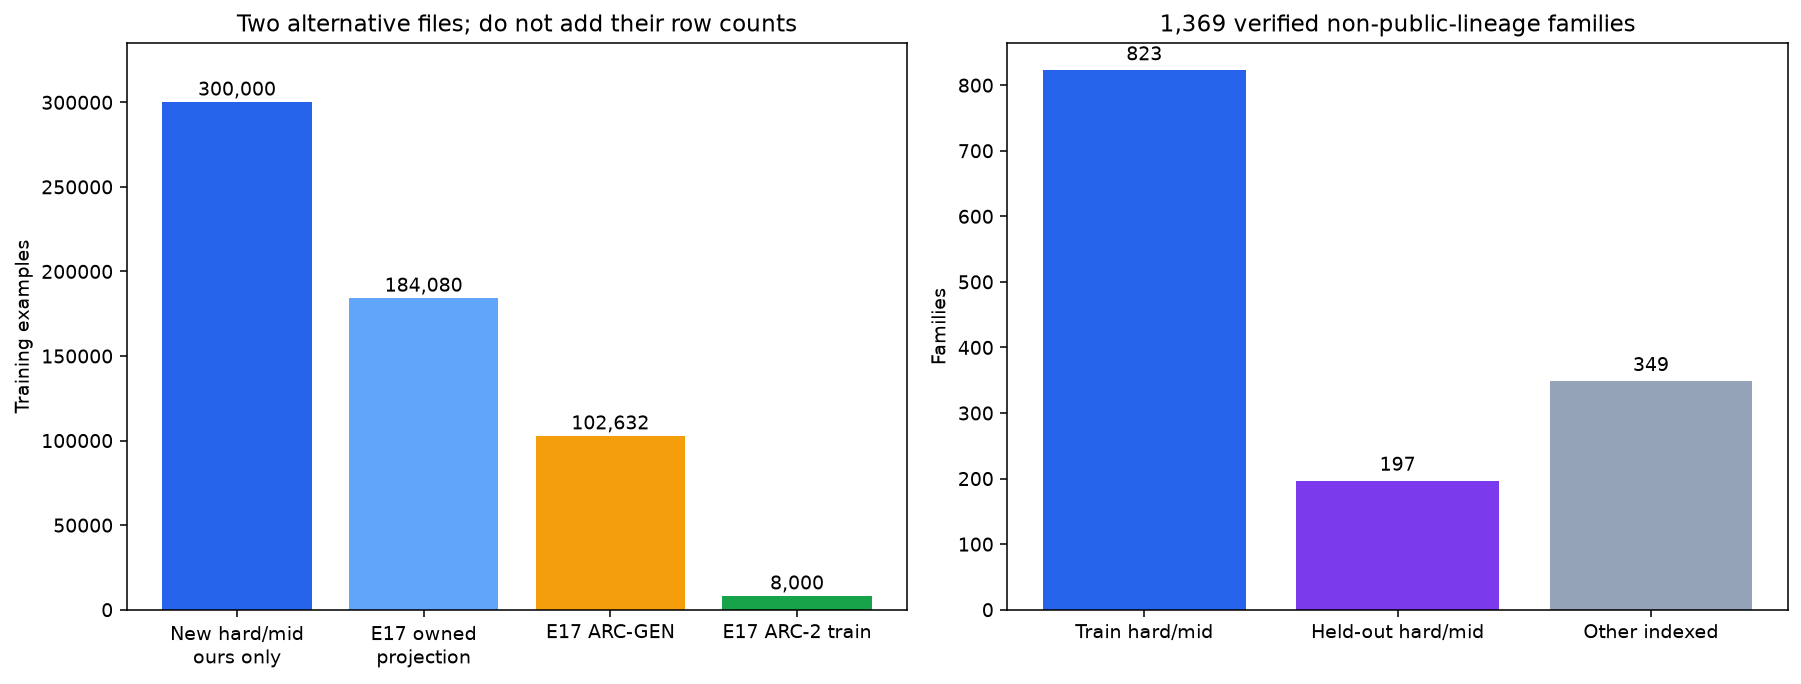
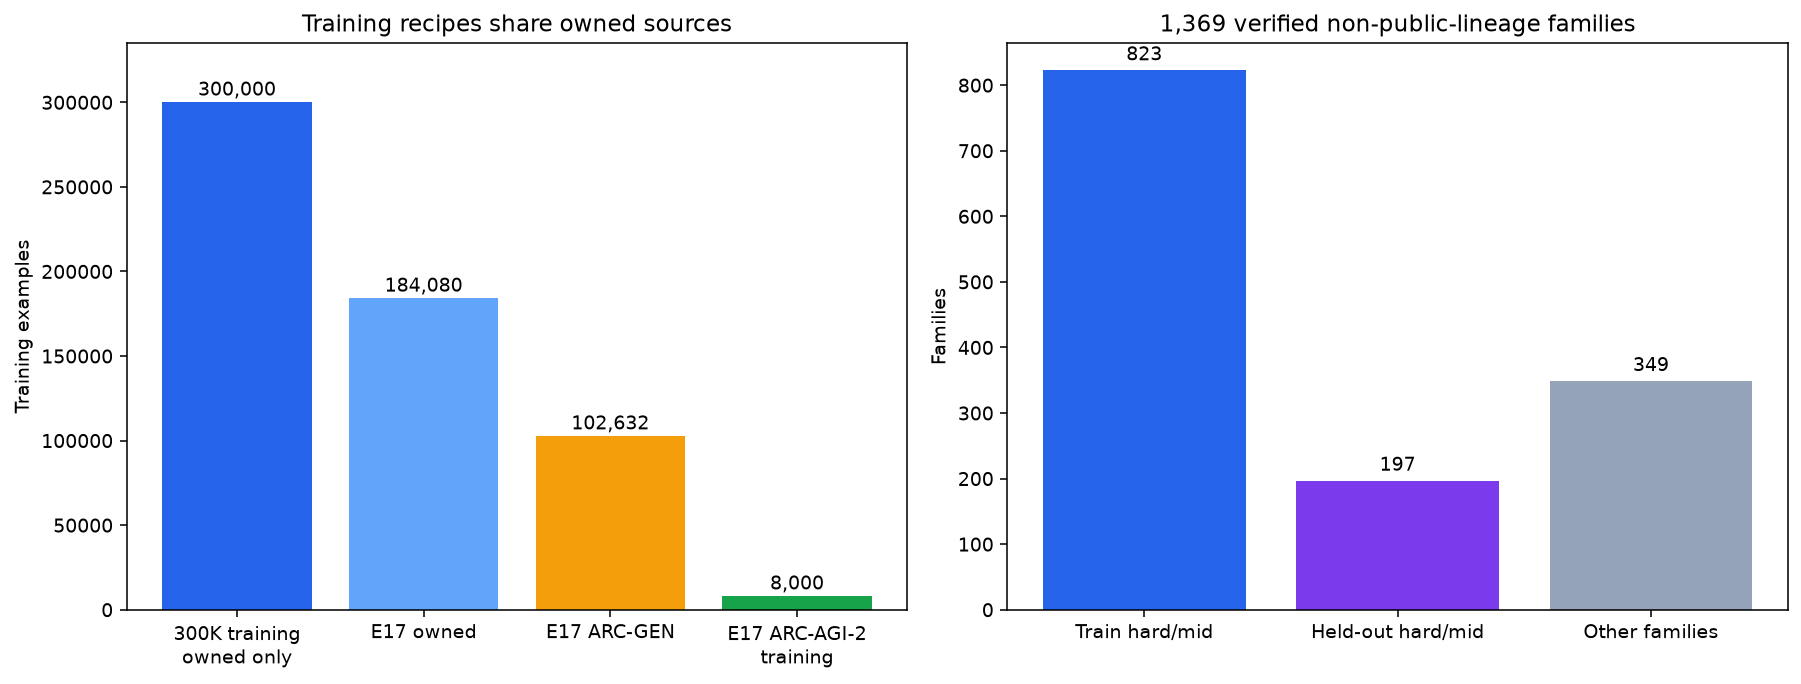
Update ARC-2 Enriched dataset images after the independent audit

diff --git a/kaggle-datasets/arc2-enriched-300k/README.md b/kaggle-datasets/arc2-enriched-300k/README.md
@@ -1,6 +1,6 @@
 # ARC-2 Enriched: 300K Hard Training Examples
 
 Images for the Kaggle description, staged at their original relative paths.
-Kaggle dataset: https://www.kaggle.com/datasets/dmitriigluzdov/arc2-generated-rule-families
+[Kaggle dataset](https://www.kaggle.com/datasets/dmitriigluzdov/arc2-generated-rule-families)
 
 Apache-2.0, confirmed by the owner on 2026-10-11. Owned contributions are additionally dedicated under CC0.
